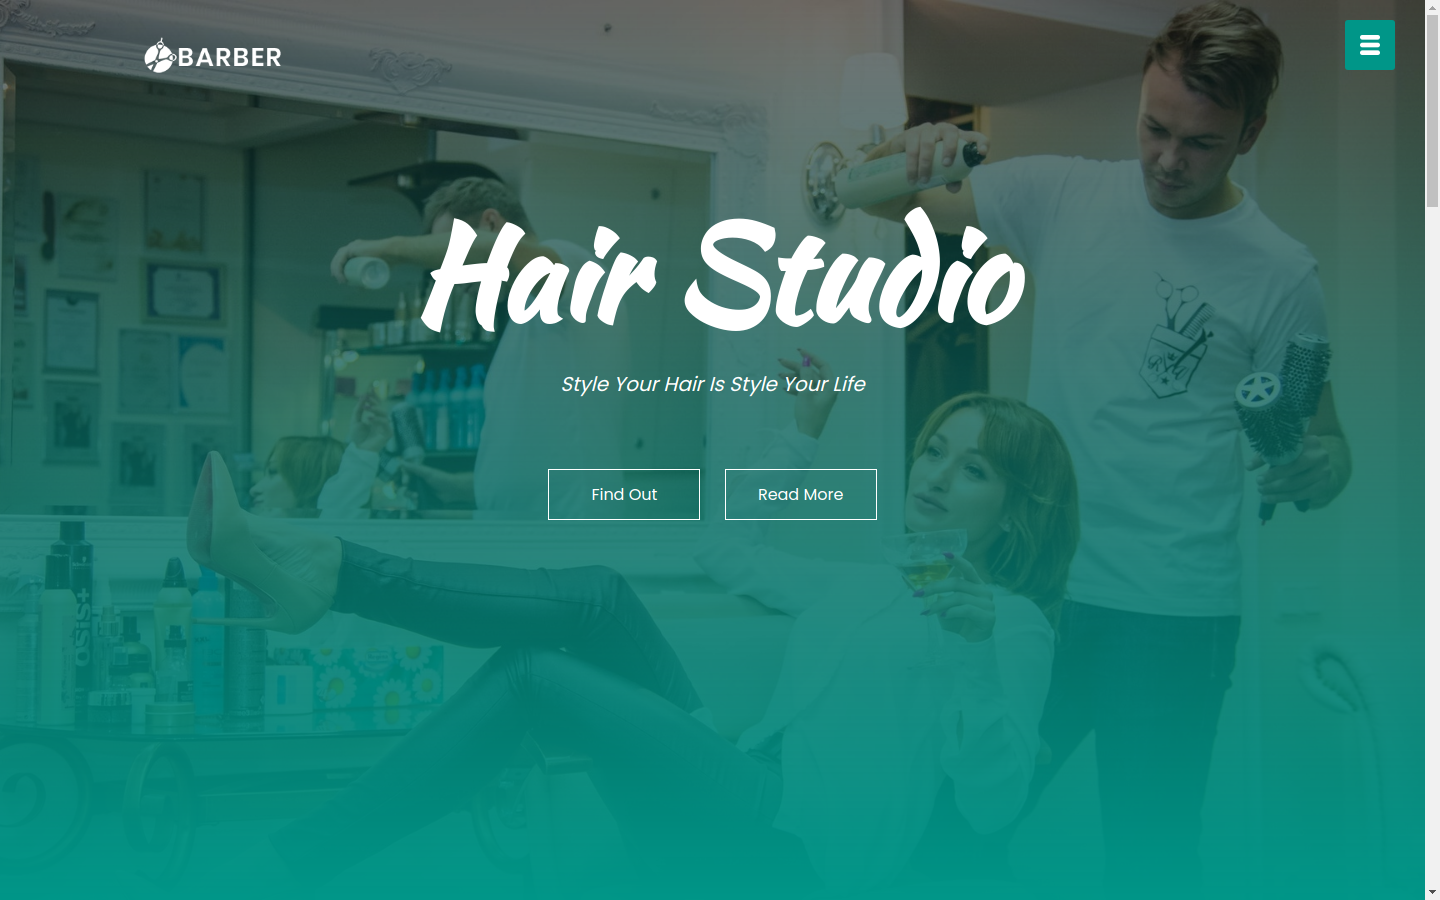
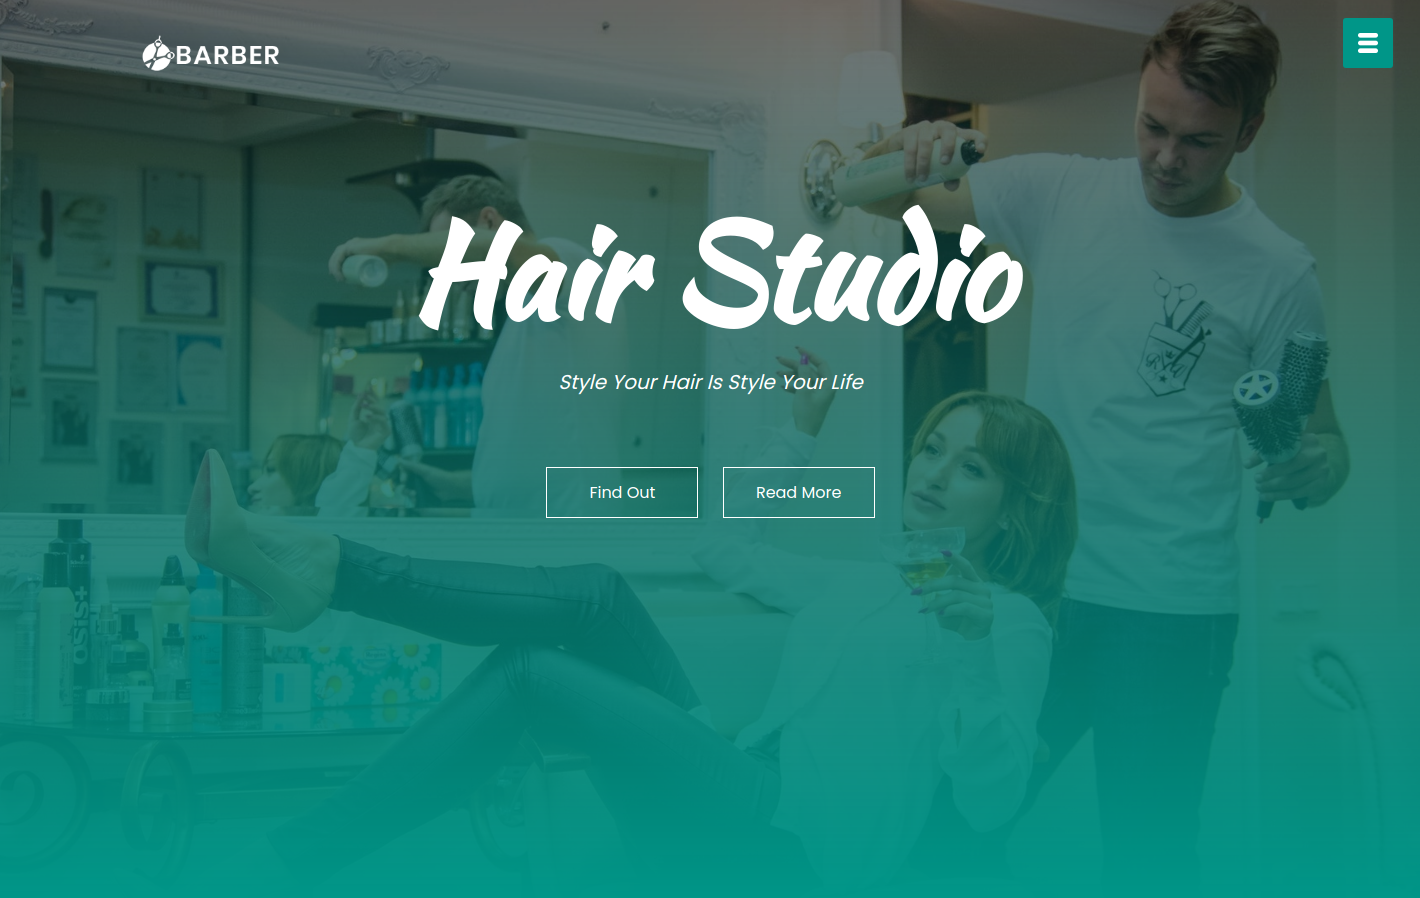
Adjusting in portfolio section

diff --git a/CSS/style2.css b/CSS/style2.css
@@ -46,11 +46,15 @@ body {
 
 .container {
     width: 90%;
-    max-width: 1520px;
-    min-width: 280px;
     height: 90vh;
     margin: 0 auto;
     padding-top: 120px;
+}
+@media screen and (max-width: 768px) {
+    .container {
+        padding-top: 60px;
+        height: inherit;
+    }
 }
 
 .button {
@@ -76,8 +80,6 @@ body {
 
 .banner {
     width: 100%;
-    max-width: 1520px;
-    min-width: 320px;
     height: 100vh;
     margin: 0 auto;
     position: relative;
@@ -103,8 +105,6 @@ body {
 .principal-nav {
     width: 100%;
     height: 80px;
-    max-width: 1520px;
-    min-width: 320px;
     margin: 0 auto;
     display: flex;
     justify-content: space-around;
@@ -349,7 +349,7 @@ body {
 /* ***************** Services **************** */
 /* ******************************************* */
 .portfolio {
-    
+    background: #d4d4d4;
 }
 
 .gallery {
@@ -392,15 +392,15 @@ body {
 
 @media screen and (max-width: 768px) {
     .container {
-        padding-top: 50px;
-    }
-
-    .portfolio {
-        background: gray;
+        padding-top: 60px;
+        height: inherit;
     }
     
+    .portfolio {
+        padding-bottom: 50px;
+    }
+
     .gallery {
-        
         display: flex;
         flex-wrap: wrap;
         justify-content: space-around;
@@ -413,25 +413,25 @@ body {
         flex-basis: 45%;
     }
     
-    .box-image img {
-        width: 100%;
-        height: 100%;
-        
-        object-fit: cover;
-        
-    }
-    
     .gallery:hover .active-img {
         flex-basis: 45%;
     }
     
-    .box-image:nth-child(1):hover {
+    .box-image:hover {
         flex-basis: 45%;
     }
+}
+
+@media screen and (max-width: 576px){
+    .box-image {
+        flex-basis: 70%;
+    }
     
+    .gallery:hover .active-img {
+        flex-basis: 70%;
+    }
     
-    
-    
-    
-    
+    .box-image:hover {
+        flex-basis: 70%;
+    }
 }

diff --git a/index.html b/index.html
@@ -126,6 +126,11 @@
       </div> <!-- /container -->
     </section>
 
+    <section>
+      <p>
+        Lorem ipsum dolor sit amet consectetur, adipisicing elit. Obcaecati ipsa praesentium quam maiores aperiam aspernatur. Minima quo a doloribus molestiae! Quo minima tempora dolor sit ullam, saepe ut beatae officiis natus nesciunt hic, voluptates optio? Explicabo possimus provident aperiam totam, nihil illo dolorum eligendi dolore sit, nostrum quos architecto ipsam maiores quibusdam placeat nam, harum commodi unde. Debitis, quis. Error voluptatem veritatis reiciendis. Omnis eos accusamus blanditiis, autem eveniet beatae sint minus officia quo similique quod, tempore fuga nobis pariatur mollitia quibusdam iste eligendi? Iste itaque consequuntur, doloribus quia quaerat, nobis distinctio similique et asperiores officiis repellat voluptatibus. Modi ipsum quibusdam, eligendi delectus commodi reprehenderit quas quasi odio blanditiis minima, atque quos quo adipisci magni ratione quae. Exercitationem in nam assumenda est! Maiores provident assumenda totam minima voluptatibus molestiae quae perferendis illum at ullam et sit sint aliquam laudantium officia neque ad quod, dolores error nesciunt optio iusto consequuntur? Aut amet, quae voluptatem officiis consectetur aperiam tenetur in reprehenderit nostrum doloribus id ipsum repellat perferendis saepe porro rerum consequuntur expedita eligendi nesciunt magnam, vel incidunt. 
+      </p>
+    </section>
 
   </main>
 
